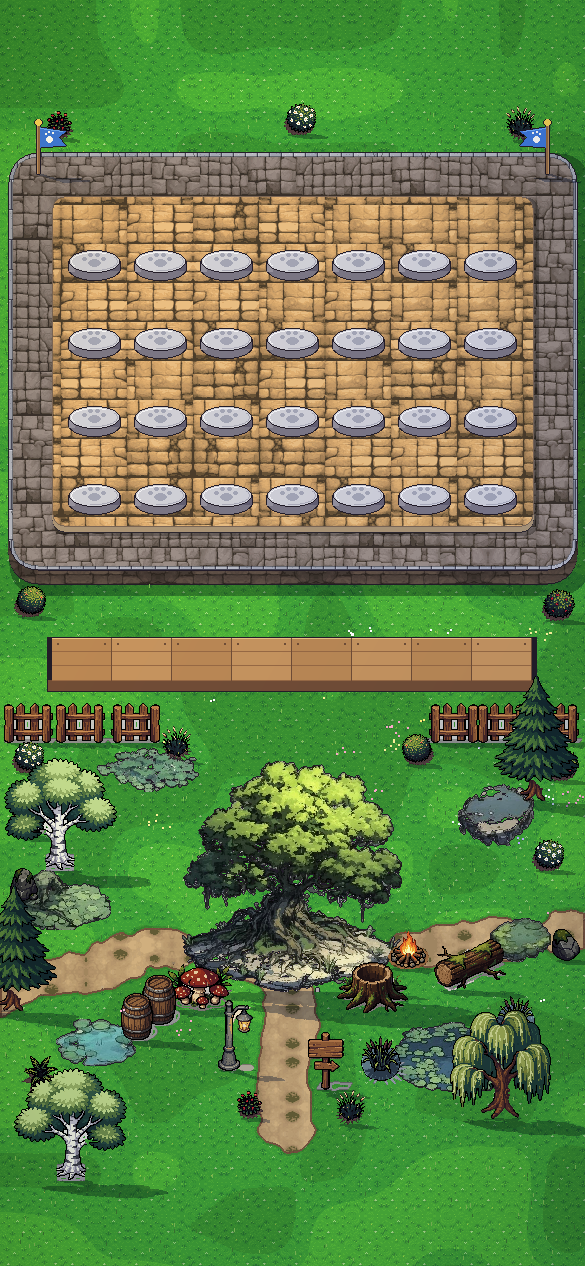
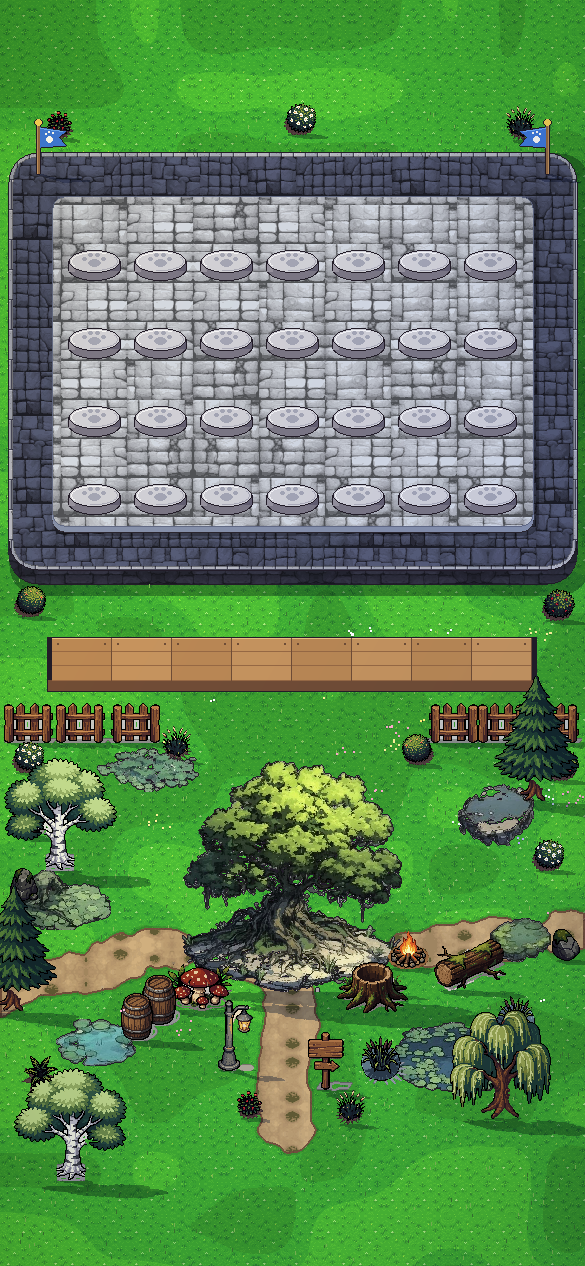
dogcat: colour pass (cool stone board, navy bag, star-coloured rings) so the dogs stand out
Claude-Session: https://claude.ai/code/session_01TXxUxQ6wjWh66ESj3NLopA

Changed region(s): [[0.0, 0.1232, 0.9846, 0.4621]]

diff --git a/dogcat.html b/dogcat.html
@@ -114,6 +114,7 @@ function draw(){const sx=G.shake>0?Math.round((Math.random()-.5)*6):0;g.setTrans
    g.drawImage(im,f*S.w,0,S.w,S.h,-S.fx*k,-S.fy*k,w,h);g.restore();
    if(o.hp<o.max){const bw=o.boss?44:24;g.fillStyle='#221c28';g.fillRect(x-bw/2-1,y-S.fy*k-7,bw+2,5);g.fillStyle=o.boss?'#f6ce6e':'#ec5454';g.fillRect(x-bw/2,y-S.fy*k-6,Math.max(0,bw*o.hp/o.max),3)}}
   else{const S=SP.units[o.kind+o.star],im=IMG['u_'+o.kind+o.star],f=o.at>=0?Math.min(S.n-1,Math.floor(o.at*12)):0,x=o.x,y=o.y,sc=o.pop>0?1+o.pop*.5:1;
+   g.strokeStyle=['#7ad0ff','#8cf08c','#ffd640'][o.star-1];g.lineWidth=2;g.beginPath();g.ellipse(x,y-3,25,11,0,0,7);g.stroke();   // a ring in the star's colour round the dog's pedestal
    g.fillStyle='rgba(10,20,10,.28)';g.beginPath();g.ellipse(x,y+1,17,5,0,0,7);g.fill();g.save();g.translate(x,y);g.scale(o.dir*sc,sc);
    if(o.at>=0)g.drawImage(im,f*S.w,0,S.w,S.h,-S.fx,-S.fy,S.w,S.h);
    else if(S.idle){const fi=Math.floor(G.t*(G.mobs.length?9:6)+o.slot*2.3)%S.idle;g.drawImage(IMG['i_'+o.kind+o.star],fi*S.w,0,S.w,S.h,-S.fx,-S.fy,S.w,S.h)}   // a real idle clip from PixelLab when the level has one
@@ -162,7 +163,7 @@ function drawItem(it,px,py,s,al){   // a pixel sprite (art/dogcat/bag/, tools/ar
  if(it.m>1&&s>40){star(px+10,py+10,1)}g.globalAlpha=1}
 function drawBag(){const B=G.buf,s=BAG.s;g.drawImage(IMG.bagp,6,716);txt('กระเป๋า',34,750,20,'#ffe296');
  const L=[];if(B.atk)L.push('โจมตี +'+Math.round(B.atk*100)+'%');if(B.spd)L.push('เร็ว +'+Math.round(B.spd*100)+'%');if(B.rng)L.push('ระยะ +'+Math.round(B.rng*100)+'%');if(B.crit)L.push('คริ '+Math.round(B.crit*100)+'%');if(B.gold)L.push('ทอง +'+Math.round(B.gold*100)+'%');
- txt(L.length?L.join('  '):'ของทุกชิ้นใช้กับหมาทุกตัว · ฆ่ามอนให้ของดรอป',116,751,13,L.length?'#a8f0aa':'#d8c8b0');
+ txt(L.length?L.join('  '):'ของทุกชิ้นใช้กับหมาทุกตัว · ฆ่ามอนให้ของดรอป',116,751,13,L.length?'#a8f0aa':'#c8d4ee');
  if(DRAG&&DRAG.moved){const gx=Math.round((DRAG.x-DRAG.ox-BAG.x)/s),gy=Math.round((DRAG.y-DRAG.oy-BAG.y)/s),ok=fits(DRAG.it,gx,gy);for(const [cx,cy] of cellsOf(DRAG.it)){const x=gx+cx,y=gy+cy;if(x>=0&&y>=0&&x<BAG.c&&y<BAG.r){g.fillStyle=ok?'rgba(110,230,120,.55)':'rgba(240,80,80,.55)';g.fillRect(BAG.x+x*s+2,BAG.y+y*s+2,s-4,s-4)}}}
  for(const it of G.items)if(!it.tray&&!(DRAG&&DRAG.it===it&&DRAG.moved))drawItem(it,BAG.x+it.gx*s,BAG.y+it.gy*s,s);
  const T=G.items.filter(i=>i.tray);

diff --git a/tools/art/dogcat_bag.py b/tools/art/dogcat_bag.py
@@ -10,23 +10,23 @@ O = 'art/dogcat/bag/'; os.makedirs(O, exist_ok=True); INK = (34, 28, 40); R = np
 def fin(c): return Image.fromarray(outline(np.asarray(c), pale=999, black=INK).astype(np.uint8))
 # ---------- panel
 PW, PH = 573, 404; a = np.zeros((PH, PW, 3)); yy, xx = np.mgrid[0:PH, 0:PW]
-n = ndimage.zoom(R.rand(PH // 6 + 2, PW // 6 + 2), 6, order=1)[:PH, :PW]; a[:] = np.array([124, 82, 52]) + (n[..., None] - .5) * 16
+n = ndimage.zoom(R.rand(PH // 6 + 2, PW // 6 + 2), 6, order=1)[:PH, :PW]; a[:] = np.array([58, 84, 140]) + (n[..., None] - .5) * 14          # a navy canvas backpack (the first one was brown like everything else)
 a[R.rand(PH, PW) < .05] *= .92
 im = Image.fromarray(np.clip(a, 0, 255).astype(np.uint8)).convert('RGBA'); d = ImageDraw.Draw(im)
-d.rounded_rectangle((0, 0, PW - 1, PH - 1), 12, outline=INK, width=3); d.rounded_rectangle((3, 3, PW - 4, PH - 4), 10, outline=(168, 118, 76), width=2); d.rounded_rectangle((5, 5, PW - 6, PH - 6), 9, outline=(92, 58, 38), width=1)
+d.rounded_rectangle((0, 0, PW - 1, PH - 1), 12, outline=INK, width=3); d.rounded_rectangle((3, 3, PW - 4, PH - 4), 10, outline=(120, 150, 210), width=2); d.rounded_rectangle((5, 5, PW - 6, PH - 6), 9, outline=(38, 56, 100), width=1)
 for x in range(14, PW - 14, 10): d.line((x, 10, x + 5, 10), fill=(232, 204, 150)); d.line((x, PH - 11, x + 5, PH - 11), fill=(232, 204, 150))
 for y in range(14, PH - 14, 10): d.line((10, y, 10, y + 5), fill=(232, 204, 150)); d.line((PW - 11, y, PW - 11, y + 5), fill=(232, 204, 150))
-d.rounded_rectangle((14, 16, PW - 15, 70), 8, fill=(104, 66, 42), outline=INK); d.line((18, 19, PW - 19, 19), fill=(150, 104, 68)); d.line((18, 67, PW - 19, 67), fill=(70, 44, 30))      # the flap
+d.rounded_rectangle((14, 16, PW - 15, 70), 8, fill=(44, 64, 112), outline=INK); d.line((18, 19, PW - 19, 19), fill=(96, 124, 184)); d.line((18, 67, PW - 19, 67), fill=(30, 44, 82))      # the flap
 for x in range(22, PW - 22, 9): d.line((x, 64, x + 4, 64), fill=(214, 184, 132))
-bx = PW - 70; d.rounded_rectangle((bx, 26, bx + 44, 60), 4, fill=(226, 186, 76), outline=INK); d.rectangle((bx + 8, 33, bx + 36, 53), fill=(104, 66, 42), outline=INK); d.rectangle((bx + 20, 30, bx + 24, 56), fill=(250, 226, 130), outline=INK); d.line((bx + 3, 29, bx + 41, 29), fill=(255, 240, 170))
-def pocket(x, y, w, h, base=(78, 50, 34)):
+bx = PW - 70; d.rounded_rectangle((bx, 26, bx + 44, 60), 4, fill=(226, 186, 76), outline=INK); d.rectangle((bx + 8, 33, bx + 36, 53), fill=(44, 64, 112), outline=INK); d.rectangle((bx + 20, 30, bx + 24, 56), fill=(250, 226, 130), outline=INK); d.line((bx + 3, 29, bx + 41, 29), fill=(255, 240, 170))
+def pocket(x, y, w, h, base=(34, 48, 86)):
     d.rounded_rectangle((x, y, x + w - 1, y + h - 1), 4, fill=INK); d.rounded_rectangle((x + 1, y + 1, x + w - 2, y + h - 2), 3, fill=base)
     d.line((x + 3, y + 2, x + w - 4, y + 2), fill=tuple(int(v * .62) for v in base)); d.line((x + 2, y + 3, x + 2, y + h - 4), fill=tuple(int(v * .62) for v in base)); d.line((x + 3, y + 3, x + w - 4, y + 3), fill=tuple(int(v * .78) for v in base))
     d.line((x + 3, y + h - 3, x + w - 4, y + h - 3), fill=tuple(min(255, int(v * 1.3)) for v in base)); d.line((x + w - 3, y + 3, x + w - 3, y + h - 4), fill=tuple(min(255, int(v * 1.3)) for v in base))
 GX, GY, S = 16, 84, 56                                   # grid origin inside the panel (the game: BAG.x = 6 + 16, BAG.y = 716 + 84)
 for r in range(4):
-    for c in range(7): pocket(GX + c * S, GY + r * S, S, S, (84, 54, 36) if (r + c) % 2 else (92, 60, 40))
-for i in range(3): pocket(432, 84 + i * 72, 126, 66, (70, 46, 32))
+    for c in range(7): pocket(GX + c * S, GY + r * S, S, S, (36, 52, 92) if (r + c) % 2 else (42, 60, 104))
+for i in range(3): pocket(432, 84 + i * 72, 126, 66, (30, 42, 76))
 d.rounded_rectangle((432, 302, 557, 365), 5, fill=INK); d.rounded_rectangle((434, 304, 555, 363), 4, fill=(112, 60, 54)); d.line((437, 306, 552, 306), fill=(160, 96, 86))
 tx, ty = 452, 318; d.rectangle((tx, ty + 6, tx + 22, ty + 34), fill=(210, 200, 196), outline=INK); d.rectangle((tx - 3, ty + 1, tx + 25, ty + 6), fill=(236, 228, 224), outline=INK); d.rectangle((tx + 7, ty - 3, tx + 15, ty + 1), fill=(236, 228, 224), outline=INK)
 for x in (tx + 6, tx + 11, tx + 16): d.line((x, ty + 11, x, ty + 30), fill=(130, 120, 120))

diff --git a/tools/art/tw_scene.py b/tools/art/tw_scene.py
@@ -46,7 +46,7 @@ def noise(c):
     n = np.random.rand(H // c + 3, W // c + 3)
     return np.asarray(Image.fromarray((n * 255).astype(np.uint8)).resize(((W // c + 3) * c, (H // c + 3) * c), Image.BICUBIC)).astype(float)[:H, :W] / 255
 N60, N24, N9 = noise(60), noise(24), noise(9)
-img = fill(tex('path_pro', False)) * np.array([.96, 1.0, .9])
+img = fill(tex('path_pro', False)) * np.array([.98, 1.08, .86])
 img[N60 < .34] *= .9; lt = N60 > .68; img[lt] = img[lt] * 1.05 + np.array([10, 8, -2])
 DIRT = fill(tex('path_pro', True)) * np.array([1.04, 1.0, .94])
 def blob(cx, cy, rx, ry): return ((xx - cx) / rx) ** 2 + ((yy - cy) / ry) ** 2 + (N24 - .5) * .5 + (N9 - .5) * .22 < 1
@@ -80,12 +80,14 @@ KERB = blocks(H, W, 12, 30, [(176, 178, 190), (162, 166, 182)], seed=9, lip=0, m
 # groups for the dais (one group per half cell, so the joints follow the slots), each cut to few colours with more contrast
 if os.environ.get('TEX', 'sheet') == 'sheet':
     import floor_sheet as FS
-    def punch(a, k=1.28, lift=1.0, tint=(1, 1, 1)):
-        m = a.reshape(-1, 3).mean(0); a = (m + (a - m) * k) * lift * np.array(tint)
+    def punch(a, k=1.28, lift=1.0, tint=(1, 1, 1), sat=1.0):
+        gr = a.mean(2, keepdims=True); a = gr + (a - gr) * sat; m = a.reshape(-1, 3).mean(0); a = (m + (a - m) * k) * lift * np.array(tint)
         return np.asarray(Image.fromarray(np.clip(a, 0, 255).astype(np.uint8)).quantize(14, method=Image.Quantize.MEDIANCUT, dither=Image.Dither.NONE).convert('RGB')).astype(float)
-    ROAD = punch(FS.patchwork(['f23', 'f29', 'f12'], W, H, 48, 44, x0=BX, y0=BY, seed=4), 1.3, .86, (.94, .97, 1.1))
-    FLOOR = punch(FS.patchwork(['f34', 'f25', 'f8'], W, H, CW, CH // 2, x0=GX, y0=GY, seed=6), 1.25, 1.2, (1.04, 1.0, .9))
-    WALL = punch(FS.mirror_tile(FS.px(FS.crop('road')), W, H), 1.2, .6, (.9, .92, 1.1))
+    # owner 2026-11-13 "ภาพเกมดูไม่น่าเล่นเลย": everything was brown (floor, dogs, bag). The stone keeps the sheet's texture but turns cool:
+    # a dark slate-blue loop and a pale blue-grey dais, so the orange dogs and the monsters stand out
+    ROAD = punch(FS.patchwork(['f23', 'f29', 'f12'], W, H, 48, 44, x0=BX, y0=BY, seed=4), 1.35, .6, (.82, .9, 1.22), .25)
+    FLOOR = punch(FS.patchwork(['f34', 'f25', 'f8'], W, H, CW, CH // 2, x0=GX, y0=GY, seed=6), 1.15, 1.42, (.93, .99, 1.1), .2)
+    WALL = punch(FS.mirror_tile(FS.px(FS.crop('road')), W, H), 1.2, .42, (.8, .86, 1.2), .25)
     DIRT2 = punch(FS.mirror_tile(FS.px(FS.crop('dirt').crop((0, 0, 190, 60))), W, H), 1.0, 1.02); img[dirt & ndimage.binary_erosion(dirt, iterations=2)] = DIRT2[dirt & ndimage.binary_erosion(dirt, iterations=2)]
 wall = down(plat, 13) & ~plat
 sh = (down(right(plat | wall, 12), 12)) & ~plat & ~wall; img[sh] = img[sh] * np.array([.62, .68, .74])     # the platform's shadow on the grass
@@ -93,9 +95,9 @@ img[ring] = ROAD[ring]; img[inner] = FLOOR[inner]; img[wall] = WALL[wall]
 kerb = plat & ~ndimage.binary_erosion(plat, iterations=5); img[kerb] = KERB[kerb]                           # a pale kerb round the edge
 img[plat & ~ndimage.binary_erosion(plat, iterations=1)] = INK; img[kerb & ~ndimage.binary_erosion(kerb | ~plat, iterations=1) & ndimage.binary_erosion(plat, iterations=4)] *= .62
 # the middle is a dais 5 px above the road: light top edge, a lip under its front edge, its shadow on the road
-lipm = down(inner, 5) & ring; img[lipm] = np.array([168, 146, 118]); img[down(lipm, 1) & ring & ~lipm] = (60, 54, 66)
+lipm = down(inner, 5) & ring; img[lipm] = np.array([132, 142, 170]); img[down(lipm, 1) & ring & ~lipm] = (60, 54, 66)
 shd = down(right(inner | lipm, 5), 4) & ring & ~lipm; img[shd] *= .72
-img[inner & ~ndimage.binary_erosion(inner, iterations=1)] = (120, 100, 86); img[inner & ~down(inner, 1) & ndimage.binary_erosion(inner | down(inner, 1), iterations=1)] = (250, 240, 214)
+img[inner & ~ndimage.binary_erosion(inner, iterations=1)] = (96, 104, 132); img[inner & ~down(inner, 1) & ndimage.binary_erosion(inner | down(inner, 1), iterations=1)] = (244, 248, 255)
 img[down(wall, 1) & ~wall & ~plat] = INK
 base = Image.fromarray(np.clip(img, 0, 255).astype(np.uint8)).convert('RGBA'); dr = ImageDraw.Draw(base)
 # grass details: tufts and flower patches (not on stone or dirt)

diff --git a/docs/action-game.md b/docs/action-game.md
@@ -1143,3 +1143,4 @@ dogcat.html speed button (owner "ลองทำให้เกม x2", read as 
 dogcat.html "more like a game" pass (owner "แก้ให้ดูเป็นเกมมากขึ้น", free): title card (หมา VS แมว, เริ่มเล่น; `?skip=1` or `DC.start()` skips it), a shop of 5 random cards (`G.shop`, `roll()`: free refresh each wave, สุ่มใหม่ = 1 gold; a bought card leaves an empty slot), wave banner ribbon (red "บอสมา!" on boss waves), coins that arc from a kill to the gold counter (which bumps), a purple portal where monsters appear, tap a placed dog = dashed reach ring + info card + ขาย (refund cost x 3^(star-1) - 1), red pulse in the last 5 s with monsters left and a red flash when HP is lost. `place(kind,slot)` unchanged for tests. Scripted run: no errors, wave 14.
 dogcat.html bag (owner "ภาพช่วงล่างทำกระเป๋าเลย", free): the yard under the bench is now the bag panel (`drawBag`): a 7x4 grid of 56 px cells (`BAG`), a tray of 3 for drops (`TRAY`), a bin (`BIN`). Items `ITEM` (emoji icons on coloured shape tiles, placeholders until real art): bone 1x2 attack +10%, spiked collar 1x1 crit +6% (x2 damage), bowl 2x2 attack speed +18%, leash 1x3 reach +14%, gold tag L-shape +15% chance of an extra coin, treat 1x1 = items touching it +25% (gold corner mark). Drops: 7% per kill, always from a boss, only while the tray has room (`give`). Pointer drag with green / red landing cells, tap = turn 90°, drop on the bin = throw away; `buffs()` → `G.buf` used by damage, cooldown, reach (also the reach ring) and kill gold. The picked dog's card moved up onto the bench strip. Scripted Playwright run (programmatic placement + one real mouse drag): no errors, 6 dogs + 4 items reached wave 18 (14 before). Not in yet: bag expansion, item merging, bench, path choice every 10 waves.
 Bag art (owner "ทำให้ดูดี", free): `tools/art/dogcat_bag.py` → `art/dogcat/bag/` = `panel.png` (a leather backpack 573x404: stitched edge, flap with a brass buckle, inset pockets for the 7x4 grid and the tray, a bin) and six pixel item sprites sized to their cells (bone, spiked collar, bowl with kibble, leash, gold tag on a chain, sparkling treat). dogcat.html draws the panel at (6,716), items as sprites turned in 90° steps over a tinted pocket shape, a star on items boosted by a treat; the emoji icons are gone. PixelLab item icons would be the next step up (about 1 credit a sheet), not ordered.
+Colour pass (owner "ภาพเกมดูไม่น่าเล่นเลย", free): the screen was brown on brown (tan dais, orange dogs, brown bag). `tw_scene.py` `punch(..., sat)`: the tile-sheet stone keeps its texture but is desaturated and cooled: dark slate-blue loop, pale blue-grey dais, darker wall, brighter grass; `dogcat_bag.py`: the backpack is navy canvas with cream stitches; dogcat.html: a ring in the star's colour (blue / green / gold) round each dog's pedestal. Before / after: `art/incoming/dogcat/dogcat_before_after.png`. Known leftover: the blue leash is weak on the navy bag.
